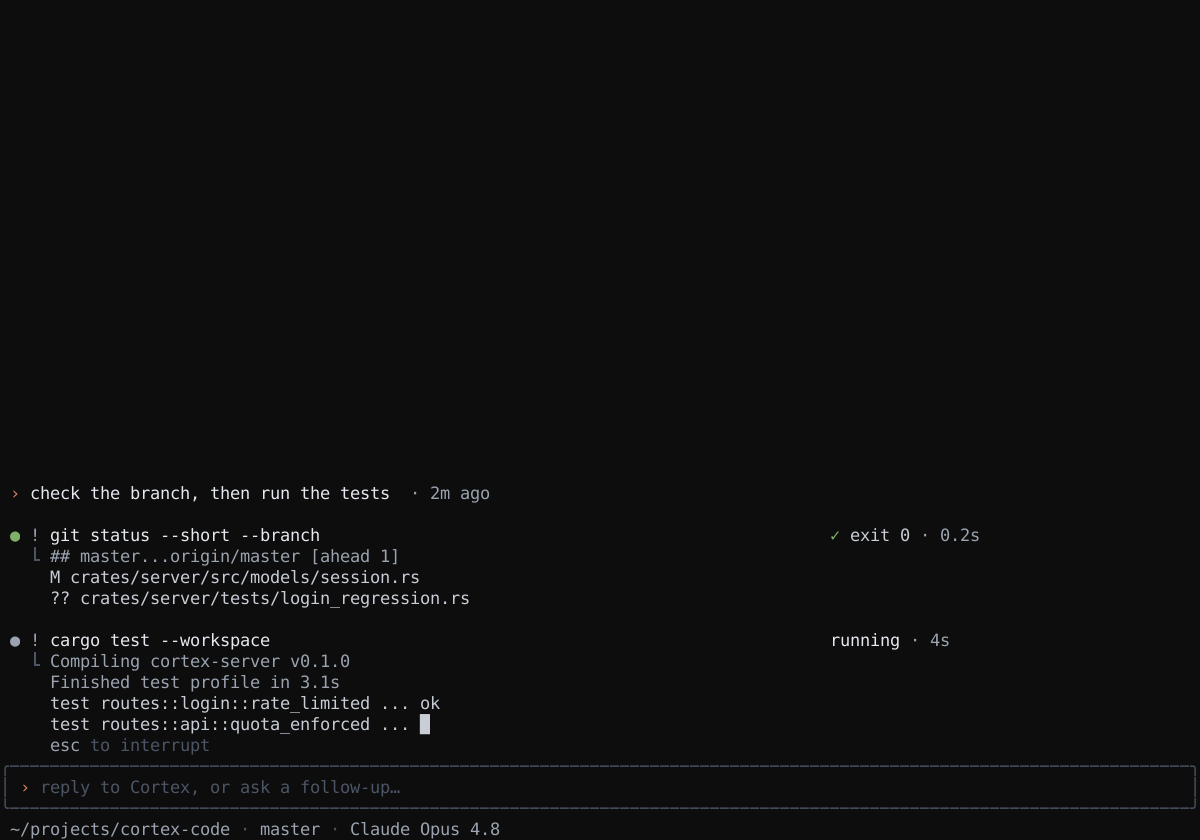
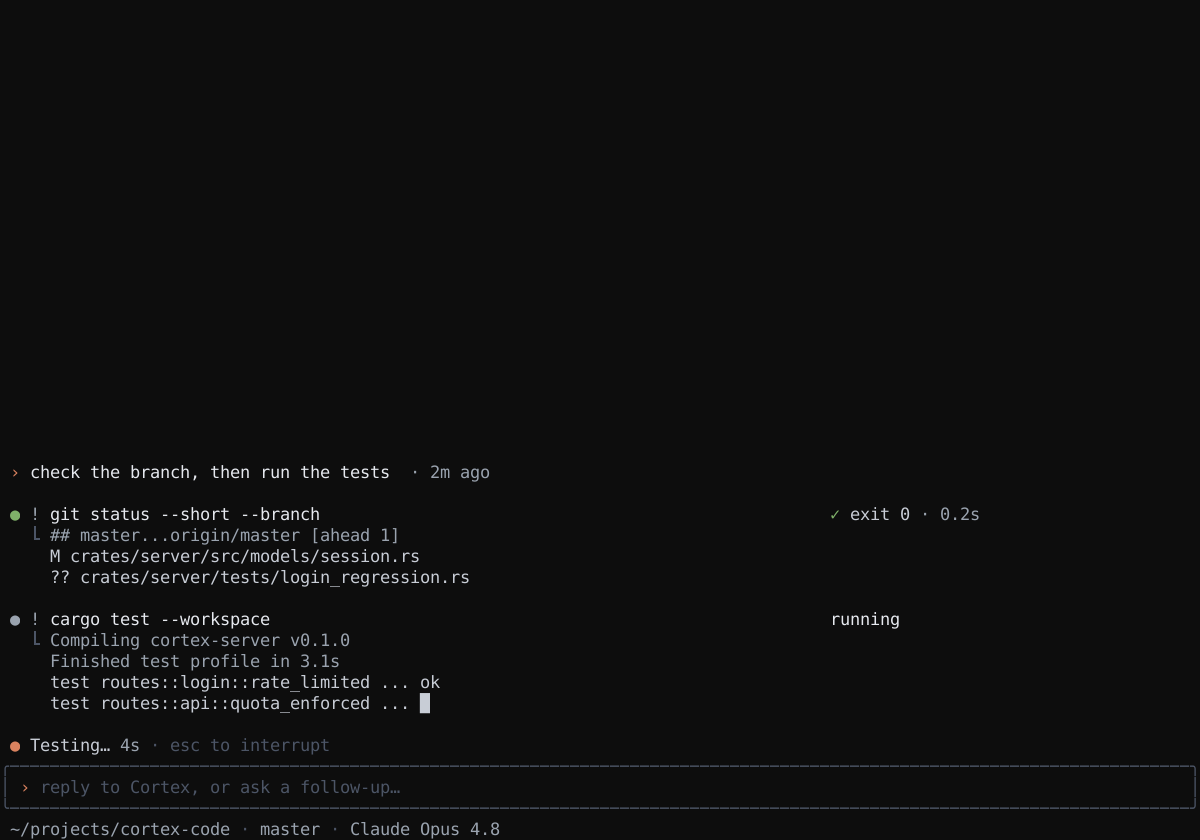
fix(mockups-v2): canonicalize interrupt bands

diff --git a/tools-throwaway/mockup-harness/sweep_audit.py b/tools-throwaway/mockup-harness/sweep_audit.py
@@ -76,8 +76,9 @@ SELECTION_CONSUMERS: dict[str, dict[str, Any]] = {
 # Live activity ownership is deliberately closed. Each entry records the exact
 # render-time `(source, verb, elapsed, interrupt)` event multiset expected for
 # a registered screen, then says whether the canonical band or inline row owns
-# its activity. The event inventory is deliberately independent of the
-# rendered wording, so helper-generated plain-English rows stay fail-closed.
+# its elapsed value. An interrupt affordance, when present, belongs only to a
+# canonical working band. The event inventory is deliberately independent of
+# the rendered wording, so helper-generated plain-English rows stay fail-closed.
 # Shared renderers may service more than one registered screen, but each
 # rendered screen still has its own explicit event inventory.
 LIVE_ACTIVITY_CONSUMERS: dict[str, dict[str, Any]] = {
@@ -110,19 +111,25 @@ LIVE_ACTIVITY_CONSUMERS: dict[str, dict[str, Any]] = {
     },
     "session/tool-task": {
         "source_paths": ("screens/tool_task.rs",),
-        "events": (("tool_running", "Task", "48s", "inline"),),
-        "owner": "inline",
-        "verb": "Task",
-        "activity": "Task(build: add rate-limit tests)",
-        "interrupt": "inline",
+        "events": (
+            ("tool_running", "Task", None, "band"),
+            ("working_band", "Building tests", "48s", "band"),
+        ),
+        "owner": "band",
+        "verb": "Building tests",
+        "activity": "Building tests",
+        "interrupt": "band",
     },
     "session/shell": {
         "source_paths": ("screens/shell.rs",),
-        "events": (("shell_running", "cargo test --workspace", "4s", "inline"),),
-        "owner": "inline",
-        "verb": "cargo test --workspace",
-        "activity": "cargo test --workspace",
-        "interrupt": "inline",
+        "events": (
+            ("shell_running", "cargo test --workspace", None, "band"),
+            ("working_band", "Testing", "4s", "band"),
+        ),
+        "owner": "band",
+        "verb": "Testing",
+        "activity": "Testing",
+        "interrupt": "band",
     },
     "session/todo-list": {
         "source_paths": ("screens/todo_list.rs",),
@@ -197,12 +204,11 @@ KEY_LINE_ROLES: dict[str, dict[int, str]] = {
     "session/reasoning": {18: "interactive_attached"},
     "session/reasoning-collapsed": {24: "interactive_attached"},
     "session/rich-response": {28: "interactive_attached"},
-    "session/shell": {36: "activity_attached"},
     "session/tool-calls": {32: "failure_adjacent"},
     "session/tool-failed": {32: "failure_adjacent"},
     "session/tool-success": {29: "interactive_attached"},
     "session/tool-success-expanded": {19: "interactive_attached"},
-    "session/tool-task": {33: "interactive_attached", 36: "activity_attached"},
+    "session/tool-task": {31: "interactive_attached"},
     "session/tool-task-expanded": {30: "interactive_attached"},
     "session/turn-error": {36: "failure_adjacent"},
     "states/error-context": {36: "interactive_attached"},
@@ -603,6 +609,7 @@ def validate_dots(audit: Audit, screens: list[dict[str, Any]]) -> None:
                     re.match(r"(?:[a-f]\s+\w+|d[1-8]\s+\w+)", context)
                     or re.match(r"(?:read|search|bash|task|edit)\(", context)
                     or re.match(r"(?:composing|scouring|writing|orchestrating|retry)\b", context)
+                    or "…" in context
                     or "in progress" in row["text"].lower()
                     or re.search(
                         r"\b(?:valid|waiting|reached|interrupted|clean|modified|warning|warnings|error|diagnostics|needs auth|info|high|med|low|complete|blocked|widen|current|build)\b",
@@ -1163,29 +1170,31 @@ def validate_live_activity(
                 )
             audit.counts["inline_live_activity"] += 1
 
-        interrupt_owner = expected_interrupt
-        if interrupt_owner == "band":
-            if len(interrupt_rows) != 1 or (bands and interrupt_rows[0] not in bands):
-                audit.fail(
-                    screen_id,
-                    interrupt_rows[0]["line"] if interrupt_rows else 0,
-                    "live_activity",
-                    "working band does not exclusively own the interrupt affordance",
-                )
-        elif interrupt_owner == "inline":
-            if len(interrupt_rows) != 1:
-                audit.fail(
-                    screen_id,
-                    interrupt_rows[1]["line"] if len(interrupt_rows) > 1 else 0,
-                    "live_activity",
-                    "inline activity does not exclusively own the interrupt affordance",
-                )
-        elif interrupt_rows:
+        if expected_interrupt == "inline":
+            audit.fail(
+                screen_id,
+                activity_row["line"],
+                "live_activity",
+                "inline interrupt ownership is forbidden",
+            )
+        if interrupt_rows and (
+            expected_interrupt != "band"
+            or len(bands) != 1
+            or len(interrupt_rows) != 1
+            or interrupt_rows[0] is not bands[0]
+        ):
             audit.fail(
                 screen_id,
                 interrupt_rows[0]["line"],
                 "live_activity",
-                "activity without interrupt ownership renders an interrupt affordance",
+                "only a working band may own the interrupt affordance",
+            )
+        elif expected_interrupt == "band" and not interrupt_rows:
+            audit.fail(
+                screen_id,
+                0,
+                "live_activity",
+                "working band does not exclusively own the interrupt affordance",
             )
 
 
@@ -1247,6 +1256,21 @@ def run(report: dict[str, Any], source_root: Path | None, fixture_name: str | No
                 "fixtures/helper-live.txt": live_source_types(
                     'render_catalogue_state() { chrome::inline_live_state("cataloguing in background", elapsed); }'
                 )
+            },
+        )
+    elif fixture_name == "cross-003-inline-interrupt":
+        validate_live_activity(
+            audit,
+            screens,
+            None,
+            {
+                "fixtures/inline-interrupt.txt": {
+                    "events": (("tool_running", "Task", "12s", "inline"),),
+                    "owner": "inline",
+                    "verb": "Task",
+                    "activity": "Task(audit)",
+                    "interrupt": "inline",
+                }
             },
         )
     elif fixture_name in {"cross-004-malformed", "cross-004-mixed"}:
@@ -1396,6 +1420,27 @@ def fixture(name: str) -> dict[str, Any]:
                 }
             ]
         }
+    if name == "cross-003-inline-interrupt":
+        text = " ● Task(audit) · 12s · esc to interrupt"
+        return {
+            "screens": [
+                {
+                    "id": "fixtures/inline-interrupt.txt",
+                    "events": [
+                        {
+                            "source": "tool_running",
+                            "verb": "Task",
+                            "elapsed": "12s",
+                            "interrupt": "inline",
+                        }
+                    ],
+                    "rows": [
+                        row(1, text, [span(0, 2, MUTED), span(2, len(text))]),
+                        status,
+                    ],
+                }
+            ]
+        }
     if name == "cross-004-valid":
         text = " ● Retrying… 2h10m · esc to interrupt"
         return {
@@ -1499,6 +1544,7 @@ def main() -> int:
             "cross-003-verb-mismatch",
             "cross-003-source-unlisted",
             "cross-003-inline-helper-unlisted",
+            "cross-003-inline-interrupt",
             "cross-004-valid",
             "cross-004-fractional",
             "cross-004-malformed",

diff --git a/tools-throwaway/mockup-harness/src/chrome.rs b/tools-throwaway/mockup-harness/src/chrome.rs
@@ -317,11 +317,11 @@ pub fn tool_line(status: ToolStatus, name: &str, args: &str) -> Line<'static> {
 }
 
 /// Shell command line with a shared status column. Finished commands pair
-/// their OK dot with `✓ exit 0`; running commands expose their elapsed time
-/// in the same column so the outcome remains readable without color.
+/// their OK dot with `✓ exit 0`; running commands may delegate elapsed time
+/// and interrupt ownership to the canonical working band.
 pub enum ShellStatus {
     Done(f64),
-    Running(f64),
+    Running(Option<f64>, LiveActivityInterrupt),
 }
 
 /// ` ● ! command                                  ✓ exit 0 · 0.2s`
@@ -332,15 +332,15 @@ pub fn shell_line(status: ShellStatus, command: &str) -> Line<'static> {
     const STATUS_COL: usize = 82;
 
     let (dot_hue, done, elapsed) = match status {
-        ShellStatus::Done(secs) => (OK, true, secs),
-        ShellStatus::Running(secs) => {
+        ShellStatus::Done(secs) => (OK, true, Some(secs)),
+        ShellStatus::Running(elapsed, interrupt) => {
             crate::audit::record_live_activity(crate::audit::LiveActivityEvent::new(
                 crate::audit::LiveActivitySource::ShellStatusRunning,
                 command,
-                Some(timefmt(secs)),
-                crate::audit::LiveActivityInterrupt::Inline,
+                elapsed.map(timefmt),
+                interrupt,
             ));
-            (MUTED, false, secs)
+            (MUTED, false, elapsed)
         }
     };
     let used = 4 + command.chars().count();
@@ -361,10 +361,12 @@ pub fn shell_line(status: ShellStatus, command: &str) -> Line<'static> {
             Style::default().fg(BRIGHT),
         ));
     }
-    spans.push(Span::styled(
-        format!("{SEP} {}", timefmt(elapsed)),
-        Style::default().fg(MUTED),
-    ));
+    if let Some(secs) = elapsed {
+        spans.push(Span::styled(
+            format!("{SEP} {}", timefmt(secs)),
+            Style::default().fg(MUTED),
+        ));
+    }
     Line::from(spans)
 }
 

diff --git a/tools-throwaway/mockup-harness/src/screens/shell.rs b/tools-throwaway/mockup-harness/src/screens/shell.rs
@@ -4,7 +4,7 @@
 
 use ratatui::{text::Line, Frame};
 
-use crate::chrome::{self, m, t, ShellStatus, StatusLine};
+use crate::chrome::{self, LiveActivityInterrupt, ShellStatus, StatusLine, m, t};
 
 pub fn render(f: &mut Frame) {
     let status = StatusLine::default();
@@ -29,7 +29,7 @@ pub fn render(f: &mut Frame) {
     ]));
     lines.push(Line::from(""));
     lines.push(chrome::shell_line(
-        ShellStatus::Running(4.0),
+        ShellStatus::Running(None, LiveActivityInterrupt::Band),
         "cargo test --workspace",
     ));
     lines.extend(chrome::elbow(vec![
@@ -40,8 +40,9 @@ pub fn render(f: &mut Frame) {
             t("test routes::api::quota_enforced ... "),
             t("█"),
         ],
-        chrome::key_span("esc", "to interrupt"),
     ]));
+    lines.push(Line::from(""));
+    lines.push(chrome::working_band("Testing", 4.0, None));
 
     chrome::transcript(f, body, lines);
 }

diff --git a/tools-throwaway/mockup-harness/src/screens/tool_task.rs b/tools-throwaway/mockup-harness/src/screens/tool_task.rs
@@ -64,13 +64,15 @@ pub fn render(f: &mut Frame) {
     lines.extend(chrome::elbow(vec![completed_summary(false)]));
     lines.push(Line::from(""));
     lines.push(chrome::tool_line(
-        ToolStatus::Running(Some(48.0), LiveActivityInterrupt::Inline),
+        ToolStatus::Running(None, LiveActivityInterrupt::Band),
         "Task",
         "build: add rate-limit tests",
     ));
     lines.extend(chrome::elbow(vec![vec![m(
-        "2 of 3 files \u{00b7} tests/login_ratelimit.rs \u{00b7} esc to interrupt",
+        "2 of 3 files \u{00b7} tests/login_ratelimit.rs",
     )]]));
+    lines.push(Line::from(""));
+    lines.push(chrome::working_band("Building tests", 48.0, None));
 
     chrome::transcript(f, body, lines);
 }

diff --git a/tools-throwaway/mockup-harness/src/audit.rs b/tools-throwaway/mockup-harness/src/audit.rs
@@ -38,7 +38,6 @@ impl LiveActivitySource {
 #[derive(Clone, Copy, Debug, Eq, PartialEq)]
 pub(crate) enum LiveActivityInterrupt {
     Band,
-    Inline,
     None,
 }
 
@@ -46,7 +45,6 @@ impl LiveActivityInterrupt {
     fn as_str(self) -> &'static str {
         match self {
             Self::Band => "band",
-            Self::Inline => "inline",
             Self::None => "none",
         }
     }
